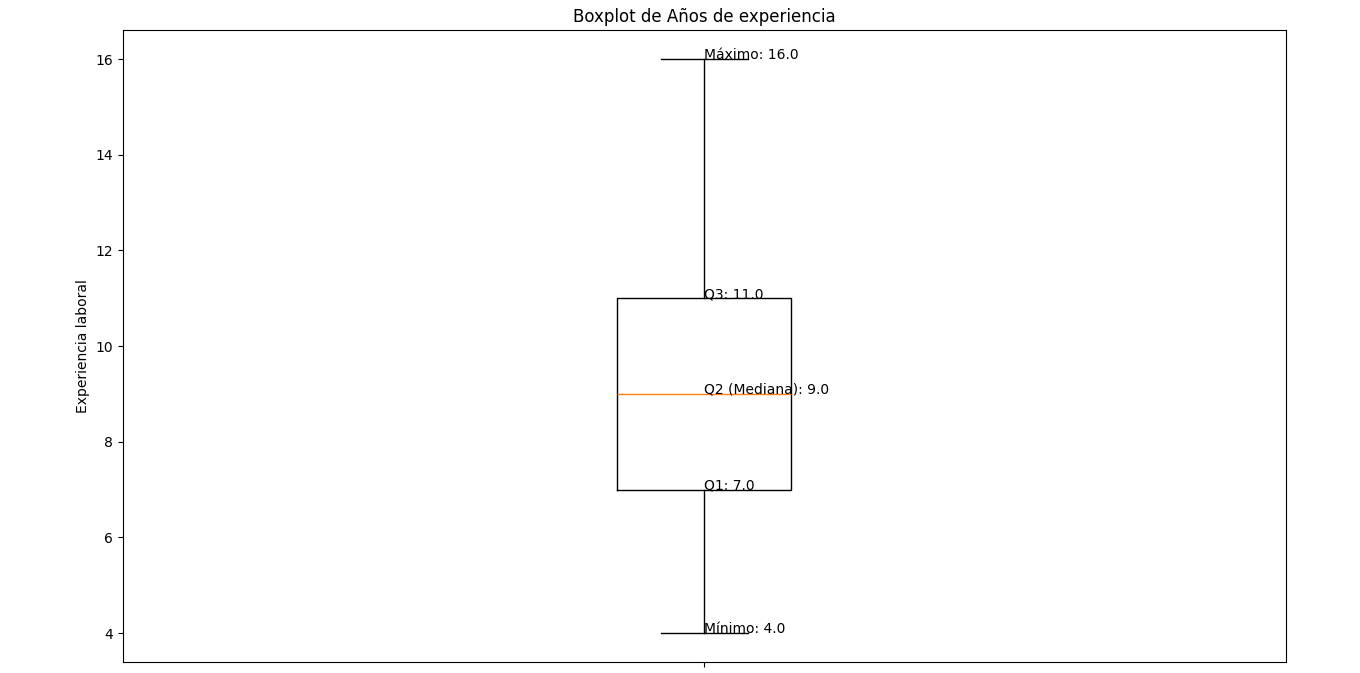
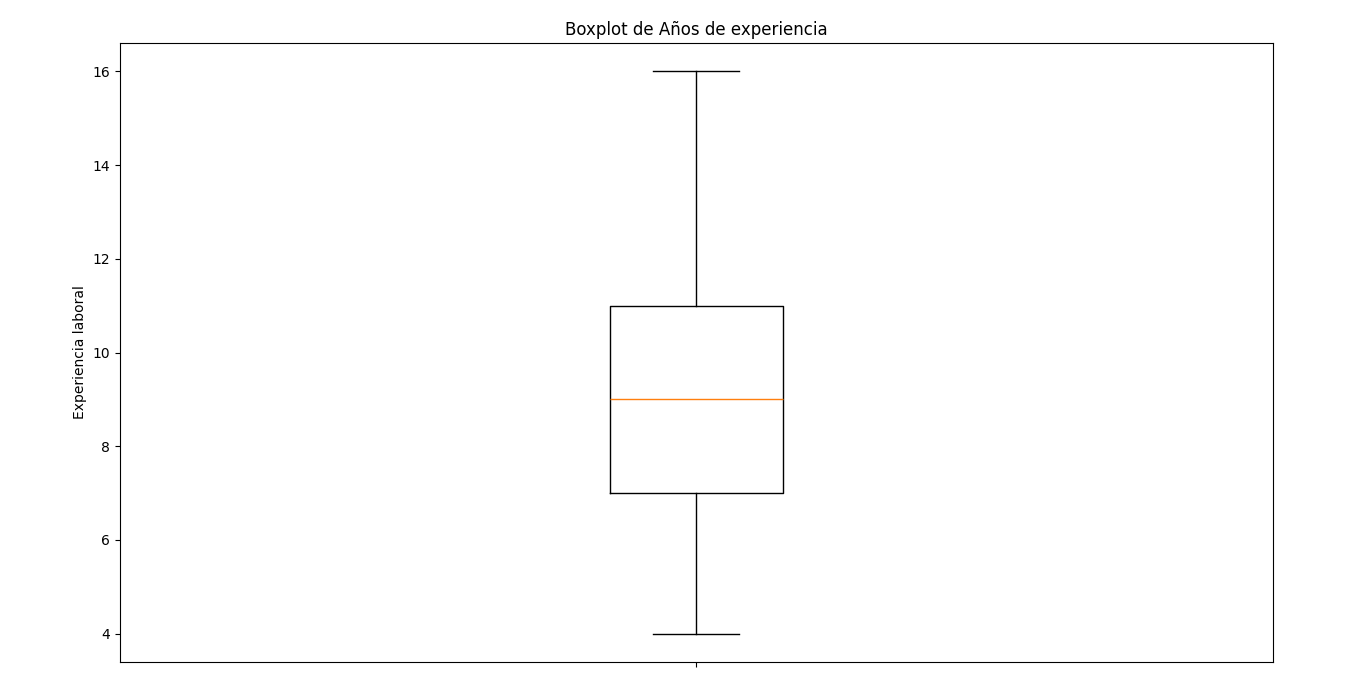
pequeños cambios

diff --git a/Análisis/analisis_expLaboral_salario.py b/Análisis/analisis_expLaboral_salario.py
@@ -22,11 +22,11 @@ plt.title('Boxplot de Años de experiencia')
 plt.ylabel('Experiencia laboral')
 
 # Mostrar datos estadísticos en el gráfico
-plt.text(1, estadisticas_exp_laboral['25%'], f"Q1: {estadisticas_exp_laboral['25%']}")
-plt.text(1, estadisticas_exp_laboral['50%'], f"Q2 (Mediana): {estadisticas_exp_laboral['50%']}")
-plt.text(1, estadisticas_exp_laboral['75%'], f"Q3: {estadisticas_exp_laboral['75%']}")
-plt.text(1, estadisticas_exp_laboral['min'], f"Mínimo: {estadisticas_exp_laboral['min']}")
-plt.text(1, estadisticas_exp_laboral['max'], f"Máximo: {estadisticas_exp_laboral['max']}")
+# plt.text(1, estadisticas_exp_laboral['25%'], f"Q1: {estadisticas_exp_laboral['25%']}")
+# plt.text(1, estadisticas_exp_laboral['50%'], f"Q2 (Mediana): {estadisticas_exp_laboral['50%']}")
+# plt.text(1, estadisticas_exp_laboral['75%'], f"Q3: {estadisticas_exp_laboral['75%']}")
+# plt.text(1, estadisticas_exp_laboral['min'], f"Mínimo: {estadisticas_exp_laboral['min']}")
+# plt.text(1, estadisticas_exp_laboral['max'], f"Máximo: {estadisticas_exp_laboral['max']}")
 plt.show()
 
 # Paso 4: Hacer un diagrama de dispersión

diff --git a/Análisis/diagramacaja_salarios.py b/Análisis/diagramacaja_salarios.py
@@ -13,12 +13,5 @@ plt.boxplot(dataset['Salario'])
 plt.title('Boxplot del Salario')
 plt.ylabel('Salario')
 
-# Mostrar datos estadísticos en el gráfico
-plt.text(1, estadisticas['25%'], f"Q1: {estadisticas['25%']}")
-plt.text(1, estadisticas['50%'], f"Q2 (Mediana): {estadisticas['50%']}")
-plt.text(1, estadisticas['75%'], f"Q3: {estadisticas['75%']}")
-plt.text(1, estadisticas['min'], f"Mínimo: {estadisticas['min']}")
-plt.text(1, estadisticas['max'], f"Máximo: {estadisticas['max']}")
-
 # Mostrar gráfico
 plt.show()
